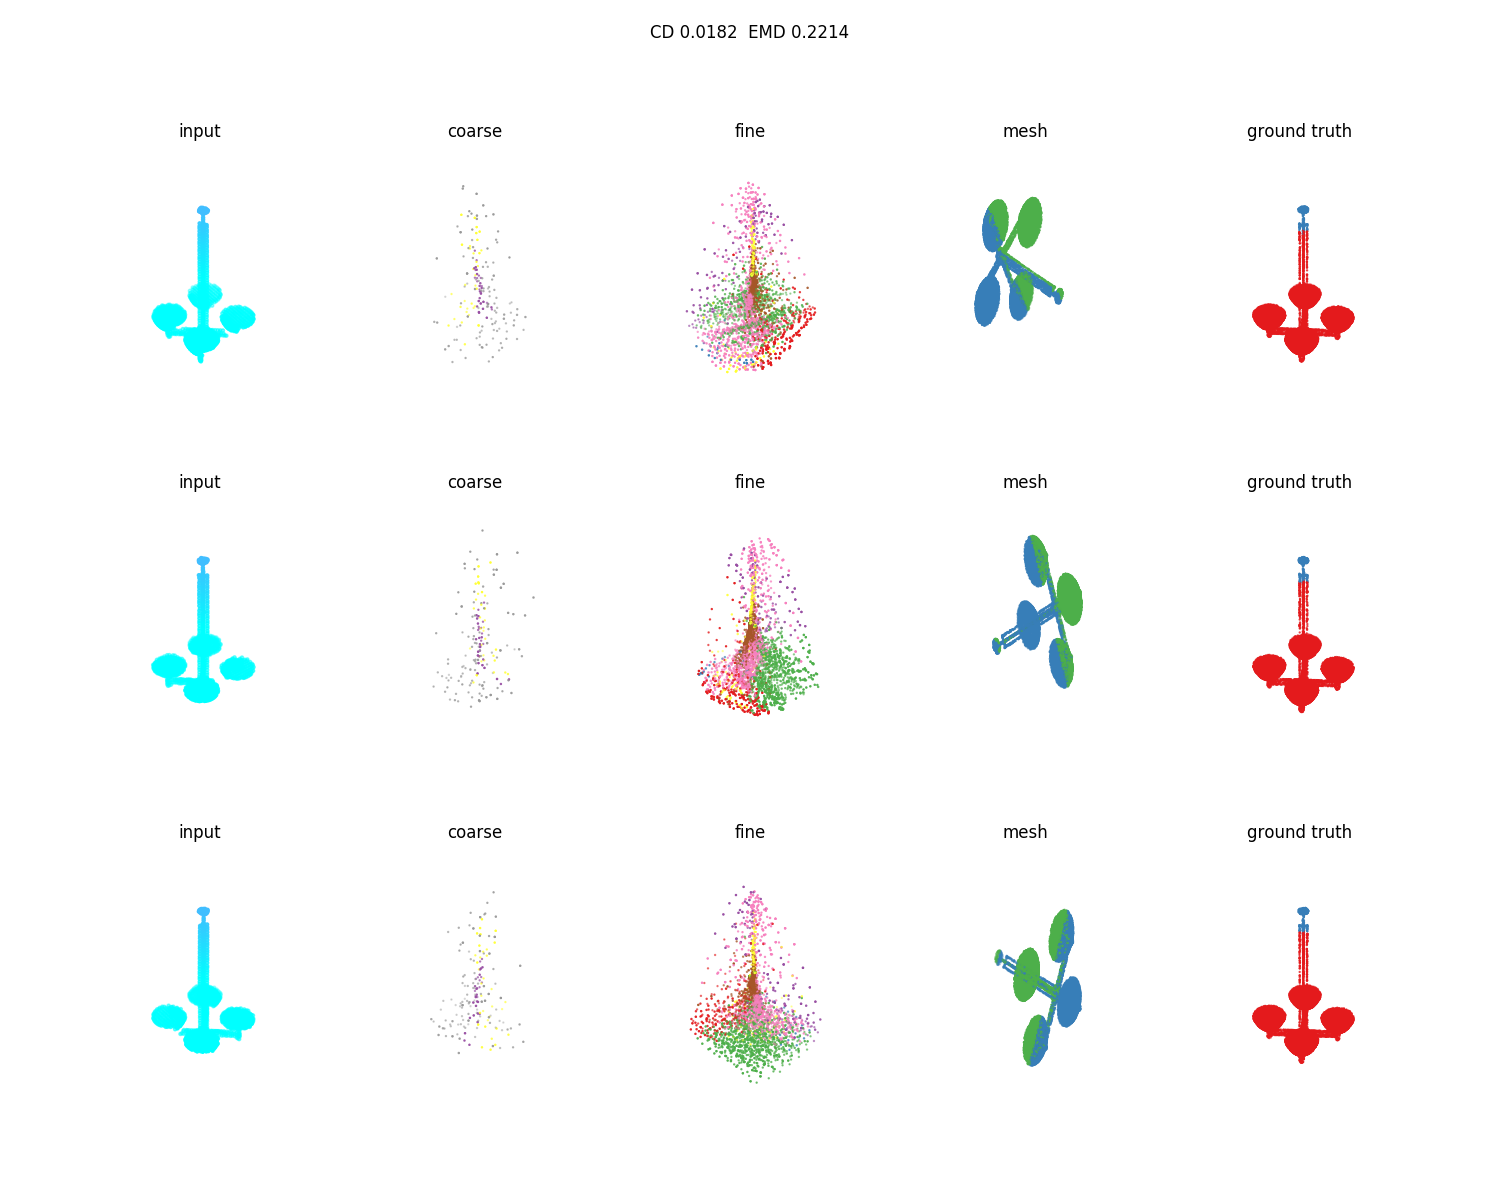
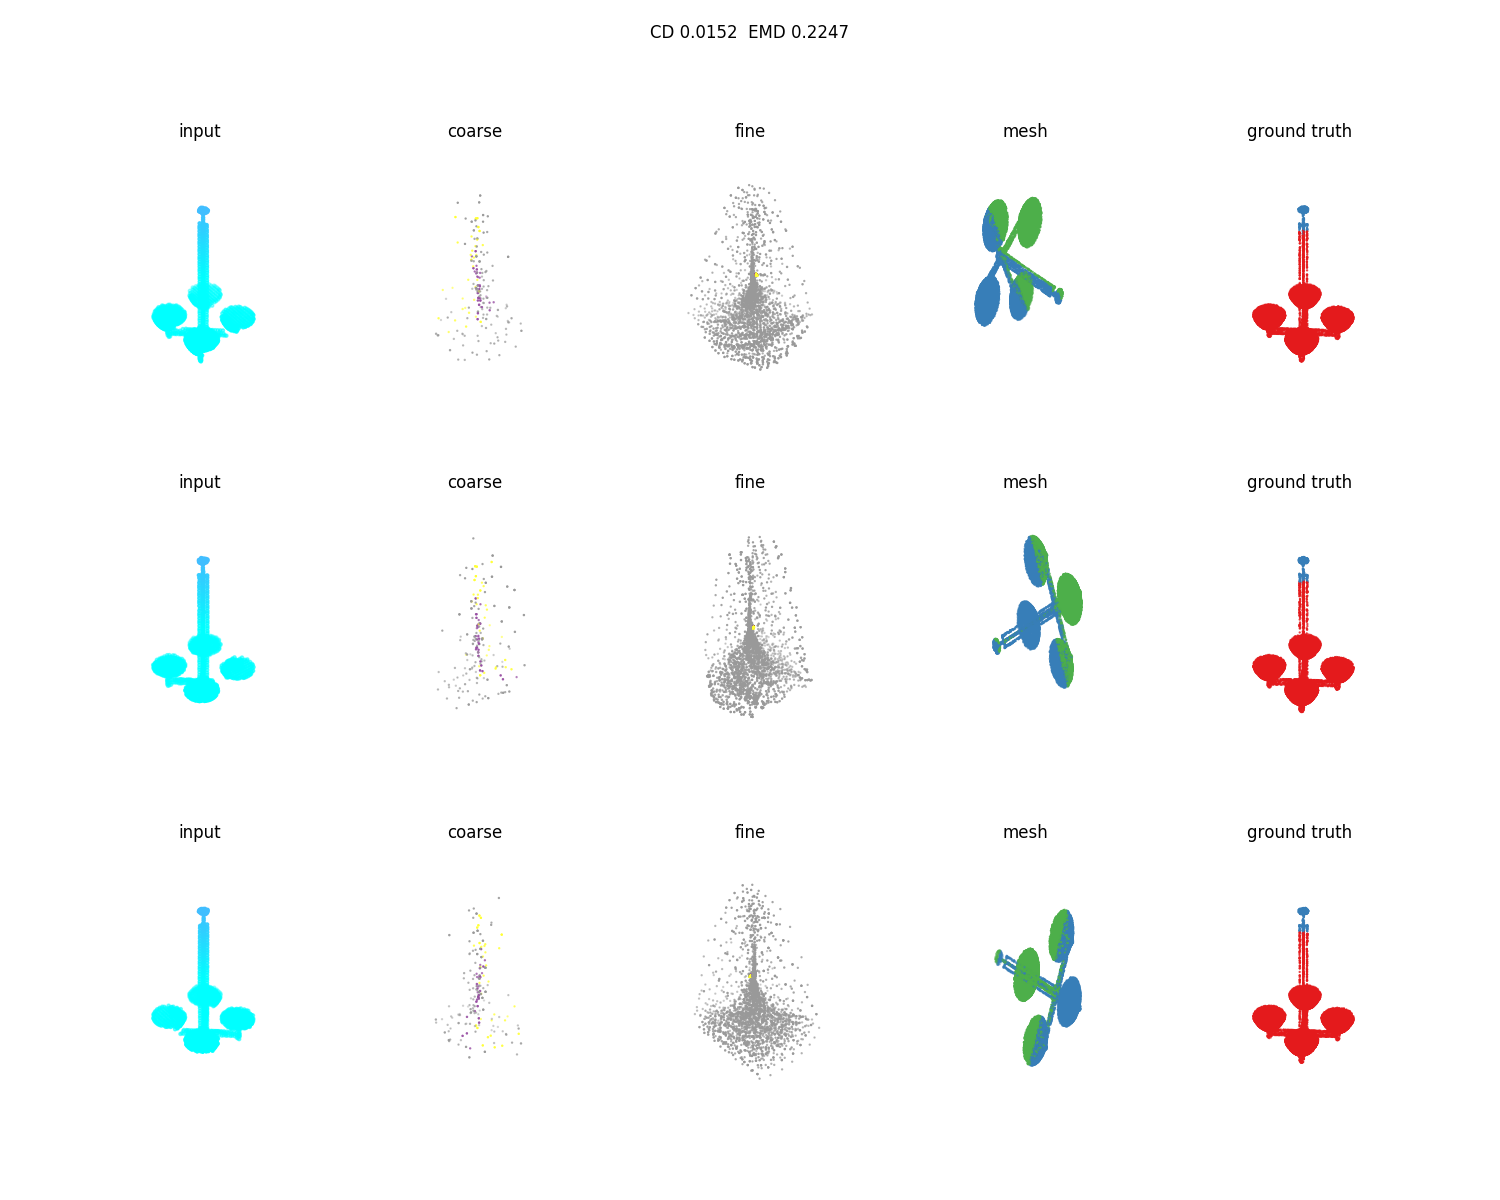
add plots

diff --git a/models/pcn_reg.py b/models/pcn_reg.py
@@ -58,10 +58,9 @@ class Model:
         with tf.variable_scope('decoder', reuse=tf.AUTO_REUSE):
             coarse = mlp(features, [1024, 1024, self.num_coarse*self.channels])
             coarse = tf.reshape(coarse, [-1, self.num_coarse, self.channels])
-            coarse_ord = point_softpool(coarse, npts_output=self.num_coarse, orders=self.channels)
-            coarse = mlp_conv_act(coarse_ord, [512, 512, 3], act_dim=self.channels)
-            # learned_label = tf.nn.softmax(coarse[:,:,3:], axis=-1)
-            coarse = tf.concat([coarse[:,:,:3], coarse_ord[:,:,:]], axis=-1)
+            feat_spool = point_softpool(coarse, npts_output=self.num_coarse, orders=self.channels)
+            coarse = mlp_conv_act(feat_spool, [512, 512, 3], act_dim=self.channels)
+            coarse = tf.concat([coarse[:,:,:3], feat_spool[:,:,:]], axis=-1)
 
         with tf.variable_scope('folding', reuse=tf.AUTO_REUSE):
             grid = tf.meshgrid(tf.linspace(-self.grid_scale, self.grid_scale, self.grid_size), tf.linspace(-self.grid_scale, self.grid_scale, self.grid_size))
@@ -75,14 +74,14 @@ class Model:
 
             feat = tf.concat([grid_feat, global_feat, point_feat], axis=2)
 
-            regions = tf.tile(tf.expand_dims(coarse_ord, 2), [1, 1, self.grid_size ** 2, 1])
-            regions = tf.reshape(regions, [-1, self.num_fine, self.channels])
+            feat_spool = tf.tile(tf.expand_dims(feat_spool, 2), [1, 1, self.grid_size ** 2, 1])
+            feat_spool = tf.reshape(feat_spool, [-1, self.num_fine, self.channels])
 
             center = tf.tile(tf.expand_dims(coarse, 2), [1, 1, self.grid_size ** 2, 1])
             center = tf.reshape(center, [-1, self.num_fine, 3+self.channels])
 
             fine = mlp_conv_act(feat, [512, 512, 3], act_dim=self.channels) # + center
-            # fine = tf.concat([fine[:,:,:3], regions], axis=-1)
+            fine = tf.concat([fine[:,:,:3], feat_spool], axis=-1)
             
             mesh = fine
 
@@ -104,17 +103,17 @@ class Model:
 
             feat = tf.concat([grid_feat, point_feat], axis=2)
 
-            regions = tf.tile(feature_ord, [1, self.grid_size ** 2, 1])
-            regions = tf.reshape(regions, [-1, self.num_fine, self.channels])
+            feat_spool = tf.tile(feature_ord, [1, self.grid_size ** 2, 1])
+            feat_spool = tf.reshape(feat_spool, [-1, self.num_fine, self.channels])
 
             fine = mlp_conv_act(feat, [512, 512, 3], act_dim=self.channels) # + center
-            fine = tf.concat([fine[:,:,:3], regions], axis=-1)
+            fine = tf.concat([fine[:,:,:3], feat_spool], axis=-1)
             
             mesh = fine
 
         p_coar_feat = tf.nn.softmax(coarse[:,:,3:3+self.channels], -1)
         p_fine_feat = tf.nn.softmax(fine[:,:,3:3+self.channels], -1)
-        p_regions_feat = tf.nn.softmax(regions, -1)
+        p_regions_feat = tf.nn.softmax(feat_spool, -1)
         p_coar_samp = tf.reduce_mean(p_coar_feat, [1])
         p_fine_samp = tf.reduce_mean(p_fine_feat, [1])
         # entropy = tf.nn.relu(tf.log(self.channels*1.0) + tf.reduce_mean(tf.reduce_sum(p_coar_samp * tf.log(p_coar_samp), [1]), [0]))
@@ -125,15 +124,15 @@ class Model:
 
     def create_loss(self, coarse, fine, gt, alpha):
         p_coar_feat = tf.nn.softmax(coarse[:,:,3:3+self.channels], -1)
-        p_fine_feat = tf.nn.softmax(fine[:,:,3:3+self.channels], -1)
+        # p_fine_feat = tf.nn.softmax(fine[:,:,3:3+self.channels], -1)
         p_can_feat = tf.nn.softmax(self.canonical[:,:,3:3+self.channels], -1)
         p_coar_samp = tf.reduce_mean(p_coar_feat, [1])
-        p_fine_samp = tf.reduce_mean(p_fine_feat, [1])
+        # p_fine_samp = tf.reduce_mean(p_fine_feat, [1])
         # entropy = tf.nn.relu(tf.log(self.channels*1.0) + tf.reduce_mean(tf.reduce_sum(p_coar_samp * tf.log(p_coar_samp), [1]), [0]))
         # entropy += tf.nn.relu(tf.log(self.channels*1.0) + tf.reduce_mean(tf.reduce_sum(p_fine_samp * tf.log(p_fine_samp), [1]), [0]))
         entropy = tf.reduce_mean(tf.nn.softmax_cross_entropy_with_logits(labels=p_can_feat, logits=p_coar_feat))
         loss_coarse = chamfer(coarse[:,:,0:3], gt[:,:,0:3])
-        loss_coarse += chamfer(self.canonical[:,:,0:3], gt_can[:,:,0:3])
+        loss_coarse += chamfer(self.canonical[:,:,0:3], self.gt_can[:,:,0:3])
         """
         _, retb, _, retd = tf_nndistance.nn_distance(coarse[:,:,0:3], gt[:,:,0:3])
         for i in range(np.shape(gt)[0]):

diff --git a/tf_util.py b/tf_util.py
@@ -37,7 +37,7 @@ def mlp_conv_act(inputs, layer_dims, act_dim=8, bn=None, bn_params=None):
     for i, num_out_channel in enumerate(layer_dims[:-1]):
         inputs = tf.contrib.layers.conv1d(
             inputs, num_out_channel,
-            kernel_size=1,
+            kernel_size=8,
             normalizer_fn=bn,
             normalizer_params=bn_params,
             scope='conv_%d' % i)
